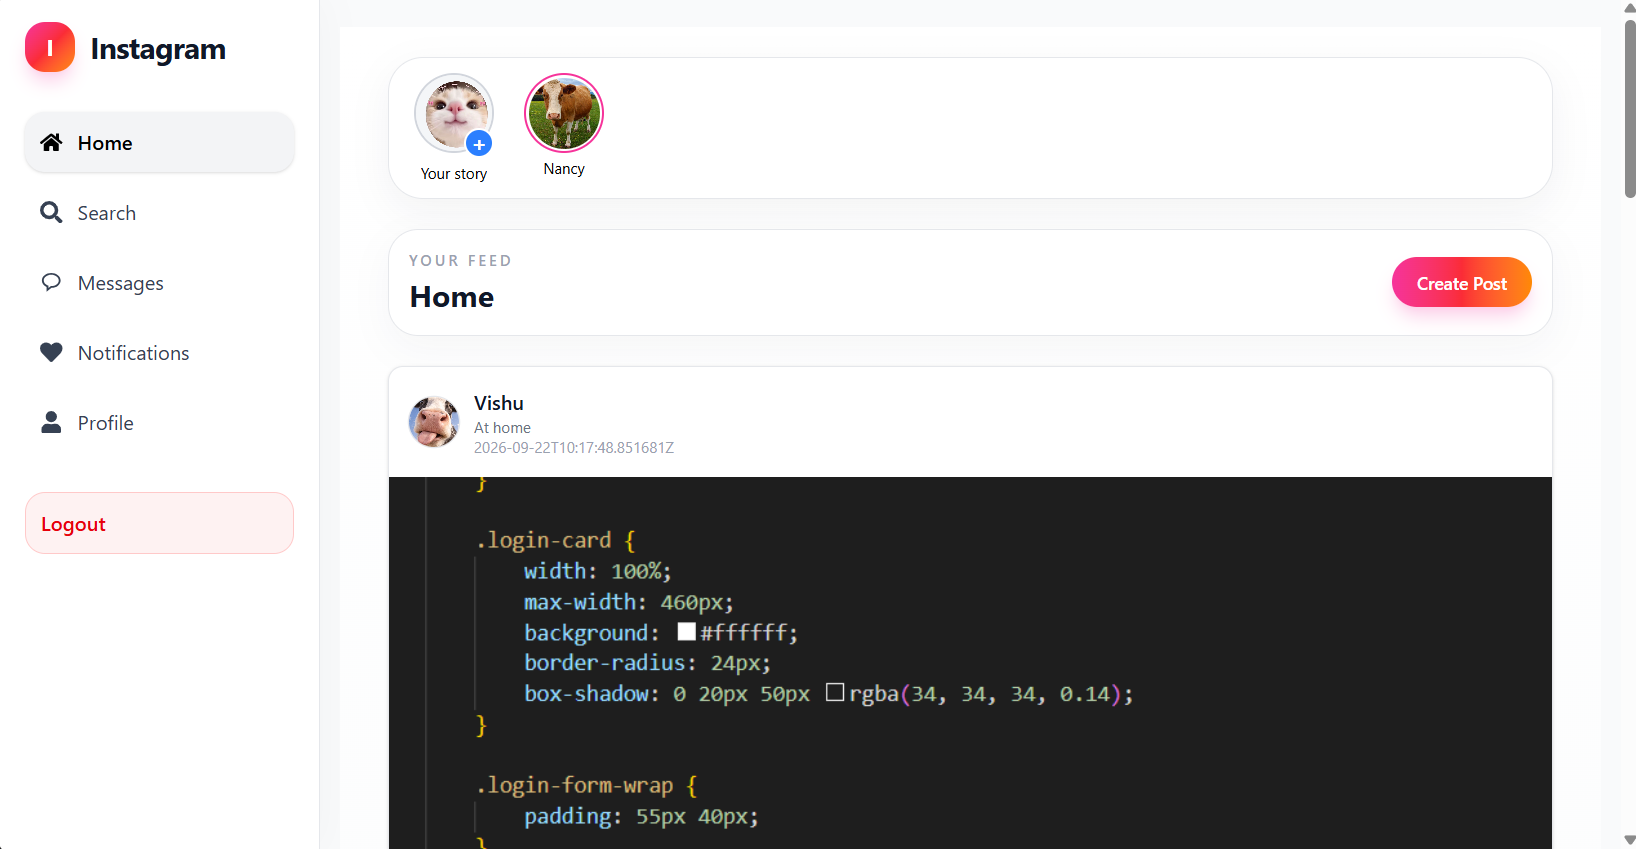
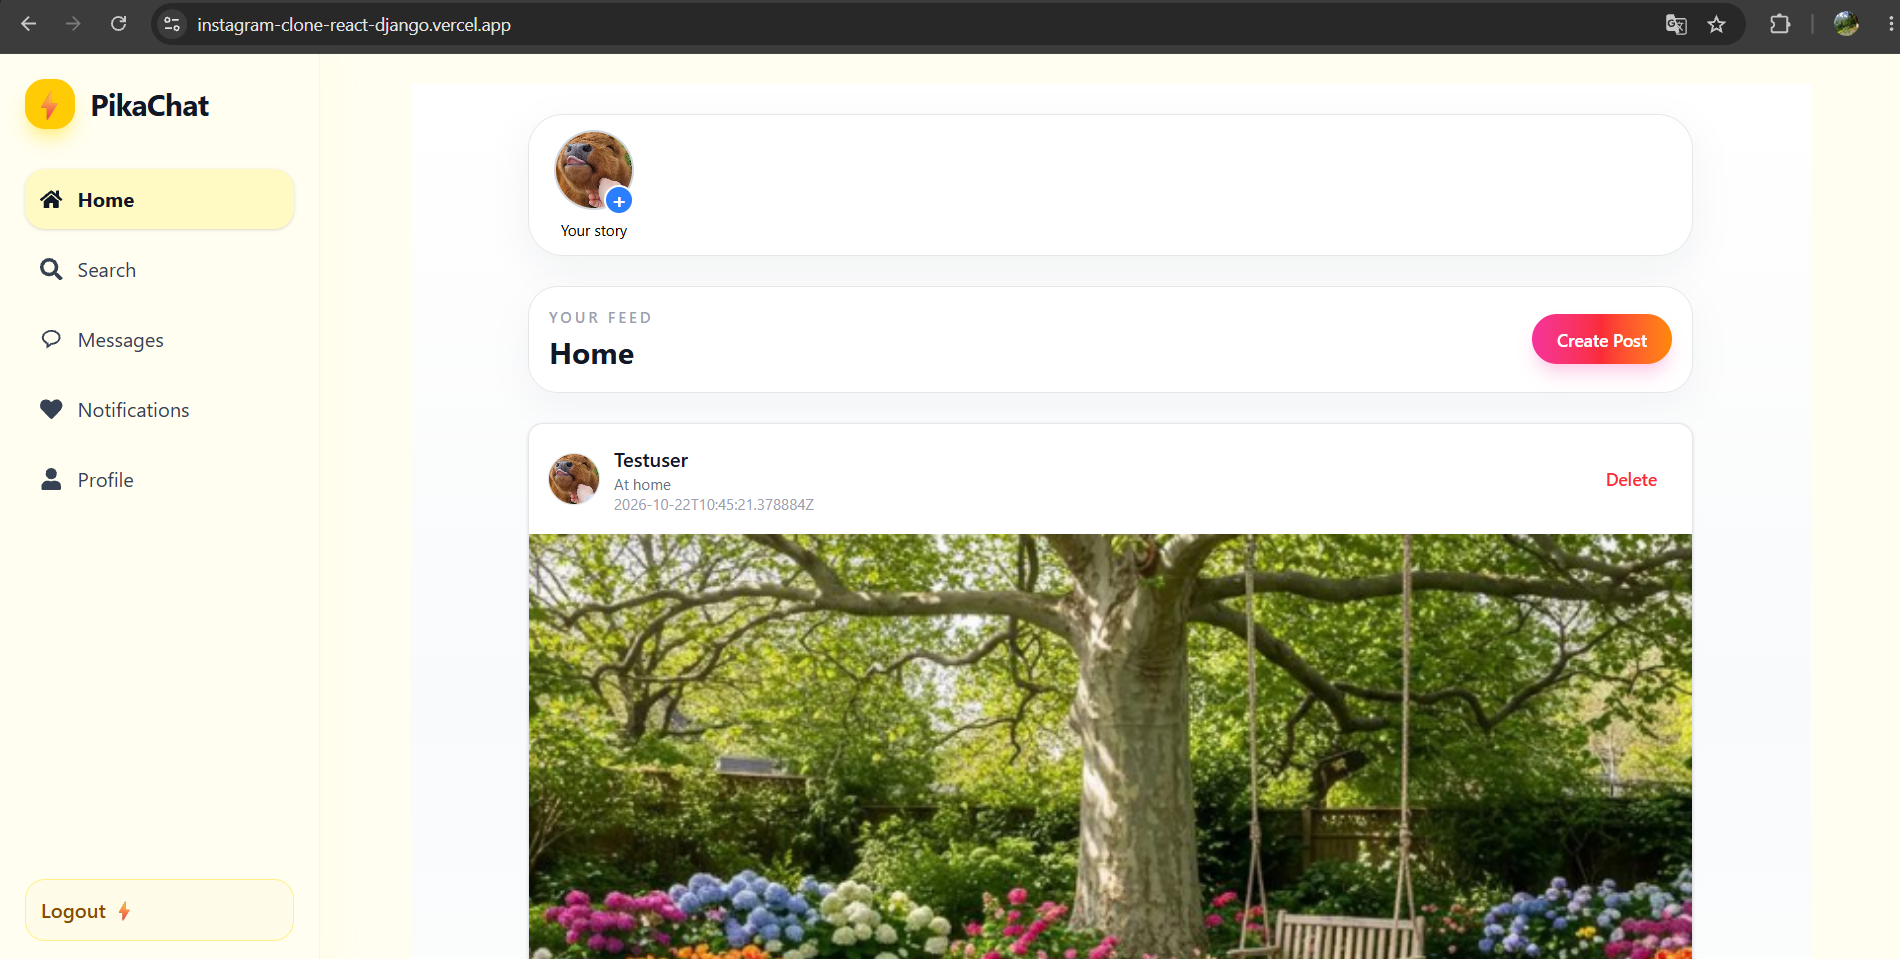
Finalized PikaChat theme, updated README and added new screenshots

diff --git a/README.md b/README.md
@@ -1,8 +1,8 @@
-# 📸 Instagram Clone — React + Django
+# ⚡ PikaChat — A Full-Stack Instagram Clone (React + Django)
 
-A full-stack Instagram-inspired social media application built using React and Django REST Framework.
+A fully functional, Instagram-inspired social media application built using React and Django REST Framework, featuring a custom "PikaChat" yellow theme. 
 
-The project includes authentication, posts, likes, comments, stories, follow requests, real-time chat, notifications, user search, and profile management.
+The project includes secure authentication, dynamic feeds, real-time chat with a hybrid messaging system, stories, follow systems, and real-time notifications.
 
 ---
 
@@ -12,134 +12,114 @@ The project includes authentication, posts, likes, comments, stories, follow req
 - User Login & Signup
 - Protected Routes
 - JWT Authentication
-- Password Reset
-- Email Verification
-- Google Authentication
+- Password Reset & Email Verification
+- Google OAuth Authentication
 
 ### 🏠 Social Feed
 - Dynamic Instagram-style feed
-- Create image posts
-- Captions and locations
-- Like posts
-- Comment on posts
-- Delete your own posts
+- Create image posts with captions and locations
+- Like and comment on posts
+- Delete own posts
 
-### 👤 User Profiles
-- Profile picture
-- Bio
+###  User Profiles
+- Profile picture and Bio
 - Followers & Following count
-- Posts count
-- Follow / Unfollow
-- Private account support
-- Follow requests
+- Follow / Unfollow functionality
+- Private account support with follow requests
 
 ### 📖 Stories
 - Create image/video stories
-- View stories
-- Story viewer
-- Story reactions
-- Story replies
-- Story expiration
-- Instagram-style "My Story"
+- Instagram-style "My Story" viewer
+- Story reactions and replies
+- Automatic story expiration
 
-### 💬 Real-Time Chat
+### 💬 Real-Time Chat (PikaChat Theme)
 - User-to-user messaging
-- Real-time messages using WebSockets
-- Typing indicator
-- Message reactions
-- Image/video/file attachments
-- Message notifications
+- Real-time messages using WebSockets (with HTTP fallback for reliability)
+- Typing indicators ("Charging up a message... ")
+- Message reactions and emojis
+- Image, video, and voice note attachments
+- Custom "Pop-in" bubble animations
 
-### 🔔 Notifications
-- Like notifications
-- Comment notifications
-- Follow notifications
-- Follow request notifications
-- Story notifications
-- Message notifications
-- Real-time notifications
+###  Notifications
+- Real-time notifications for likes, comments, follows, and messages
+- Unread message counters
 
 ### 🔍 Search
-- Search users
+- Search users by username
 - User profile preview
-- Search results
 
 ---
 
-## 🛠 Tech Stack
+##  Tech Stack
 
 ### Frontend
-- React
-- Vite
-- Tailwind CSS
-- JavaScript
+- React.js + Vite
+- Tailwind CSS (Custom PikaChat Theme)
+- JavaScript (ES6+)
 
 ### Backend
-- Python
-- Django
-- Django REST Framework
-- Django Channels
-- WebSockets
+- Python + Django
+- Django REST Framework (DRF)
+- Django Channels (WebSockets)
 
-### Database
-- PostgreSQL / Supabase PostgreSQL
+### Database & Storage
+- PostgreSQL (via Supabase)
+- Cloudinary (for media/image storage)
 
-### Other Technologies
-- JWT Authentication
-- REST APIs
-- WebSockets
-- Cloudinary for media storage
+### Deployment & DevOps
+- **Frontend:** Vercel
+- **Backend:** Render (ASGI via Daphne)
+- Git & GitHub
 
 ---
 
-## 📸 Screenshots
+## 🚧 Challenges & Solutions
+
+**Challenge:** Implementing real-time WebSockets on free-tier hosting (Render). Free-tier servers sleep after inactivity, causing WebSocket connections to drop (Error 1006) and messages to fail.
+
+**Solution:** 
+- Configured the backend to use an ASGI server (Daphne) for WebSocket support.
+- Implemented a **Hybrid Messaging System**: Used WebSockets for the real-time "typing" and "live" feel, but added an **HTTP POST fallback** for sending actual messages. This ensures 100% message delivery reliability even if the WebSocket temporarily disconnects.
+- Added automatic reconnection logic on the frontend.
+
+**Learning:** Understanding the trade-offs between free-tier infrastructure limitations and production-grade reliability, and how to engineer around them.
+
+---
+
+##  Screenshots
 
 ### 🏠 Home Feed
-
 ![Home Feed](screenshots/home.png)
 
-### 👤 Profile
+### SignUp functionality
+![Signup](screenshots/signup.png)
 
+### 👤 Profile
 ![Profile](screenshots/profile.png)
 
-### 📖 Stories
-
-![Stories](screenshots/stories.png)
-
-### 💬 Real-Time Chat
-
+### 💬 PikaChat Real-Time Messaging
 ![Chat](screenshots/chat.png)
 
+### 📖 Stories
+![Stories](screenshots/stories.png)
+
 ### 🔔 Notifications
-
 ![Notifications](screenshots/notifications.png)
-
-### 🔍 Search
-
-![Search](screenshots/search.png)
 
 ---
 
-## 📚 What I Learned
+##  What I Learned
 
-While building this project, I learned:
-
-- How to build a full-stack application using React and Django
-- How React communicates with a Django REST API
-- JWT-based authentication
-- Protected routes in React
-- CRUD operations using REST APIs
-- State and props management in React
-- Database integration with PostgreSQL
-- Django models, serializers and views
-- User authentication and authorization
-- Follow and follow-request systems
-- Private account functionality
-- Real-time communication using WebSockets
-- Real-time notifications using Django Channels
-- Handling image and video uploads
-- Frontend and backend project structure
-- Git and GitHub workflow
+While building PikaChat, I learned:
+- How to architect and build a complete full-stack application from scratch.
+- How to seamlessly integrate React with a Django REST API.
+- Implementing JWT-based authentication and secure protected routes.
+- Managing complex state and props in React.
+- Designing and implementing real-time features using Django Channels and WebSockets.
+- **Crucial:** How to handle deployment constraints and build fallback mechanisms for free-tier hosting.
+- Customizing UI/UX with Tailwind CSS to create a unique brand identity (PikaChat).
+- Professional Git and GitHub workflow for version control.
 
 ---
 
@@ -164,15 +144,29 @@ instagram-clone-react-django/
 │       ├── components/
 │       ├── pages/
 │       ├── utils/
-│       └── App.jsx
+│       ── App.jsx
 │
 ├── screenshots/
 │   ├── home.png
 │   ├── profile.png
 │   ├── stories.png
 │   ├── chat.png
-│   ├── notifications.png
-│   └── search.png
+│   └── notifications.png
 │
 ├── .gitignore
 └── README.md
+
+🚀 How to Run Locally
+Backend:-
+cd backend/hlo
+Create a virtual environment: python -m venv venv
+Activate it and install dependencies: pip install -r requirements.txt
+Run migrations: python manage.py migrate
+Start the server: python manage.py runserver
+
+Frontend:-
+cd frontend
+Install dependencies: npm install
+Start the development server: npm run dev
+
+Made with ⚡ and ☕ by [DIVYA JYOTI]
